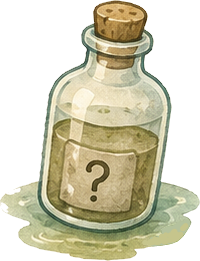
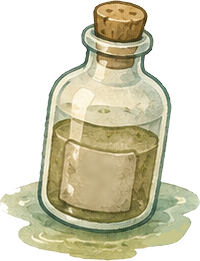
Page sides, image updates

Changed region(s): [[0.42, 0.613, 0.57, 0.7969]]

diff --git a/public/css/main.css b/public/css/main.css
@@ -1,6 +1,6 @@
 :root {
 	--scene-max: 1200px;
-	--page-bg: #344a26;
+	--page-bg: #33462d;
 	--header-green: #eef4d9;
 	--sky-blue: #b6e6ed;
 	--pond-blue: #9bb894;
@@ -139,7 +139,7 @@ a {
 }
 
 .pond-bubble--2 {
-	--bubble-x: 18%;
+	--bubble-x: 9%;
 	--bubble-y: 66%;
 	--bubble-size: 17px;
 	--bubble-duration: 17s;
@@ -155,7 +155,7 @@ a {
 }
 
 .pond-bubble--4 {
-	--bubble-x: 50%;
+	--bubble-x: 34%;
 	--bubble-y: 62%;
 	--bubble-size: 14px;
 	--bubble-duration: 18s;
@@ -171,7 +171,7 @@ a {
 }
 
 .pond-bubble--6 {
-	--bubble-x: 82%;
+	--bubble-x: 92%;
 	--bubble-y: 46%;
 	--bubble-size: 18px;
 	--bubble-duration: 19s;
@@ -187,11 +187,59 @@ a {
 }
 
 .pond-bubble--8 {
-	--bubble-x: 44%;
+	--bubble-x: 64%;
 	--bubble-y: 84%;
 	--bubble-size: 20px;
 	--bubble-duration: 20s;
 	--bubble-delay: -13s;
+}
+
+.pond-bubble--9 {
+	--bubble-x: 3%;
+	--bubble-y: 78%;
+	--bubble-size: 8px;
+	--bubble-duration: 11s;
+	--bubble-delay: -5s;
+}
+
+.pond-bubble--10 {
+	--bubble-x: 31%;
+	--bubble-y: 35%;
+	--bubble-size: 15px;
+	--bubble-duration: 16s;
+	--bubble-delay: -10s;
+}
+
+.pond-bubble--11 {
+	--bubble-x: 69%;
+	--bubble-y: 38%;
+	--bubble-size: 9px;
+	--bubble-duration: 13s;
+	--bubble-delay: -8s;
+}
+
+.pond-bubble--12 {
+	--bubble-x: 97%;
+	--bubble-y: 84%;
+	--bubble-size: 16px;
+	--bubble-duration: 18s;
+	--bubble-delay: -15s;
+}
+
+.pond-bubble--13 {
+	--bubble-x: 39%;
+	--bubble-y: 59%;
+	--bubble-size: 12px;
+	--bubble-duration: 14s;
+	--bubble-delay: -3s;
+}
+
+.pond-bubble--14 {
+	--bubble-x: 61%;
+	--bubble-y: 55%;
+	--bubble-size: 19px;
+	--bubble-duration: 17s;
+	--bubble-delay: -12s;
 }
 
 .pond-ripple {
@@ -227,14 +275,14 @@ a {
 
 @keyframes pond-bubble-rise {
 	0%,
-	38% {
+	18% {
 		opacity: 0;
 		transform: translate3d(0, 10px, 0) scale(0.75);
 	}
-	48% {
-		opacity: 0.56;
+	28% {
+		opacity: 0.5;
 	}
-	76% {
+	86% {
 		opacity: 0;
 		transform: translate3d(6px, -48px, 0) scale(1.08);
 	}
@@ -246,14 +294,14 @@ a {
 
 @keyframes pond-ripple-spread {
 	0%,
-	65% {
+	42% {
 		opacity: 0;
 		transform: scale(0.45);
 	}
-	69% {
+	49% {
 		opacity: 0.32;
 	}
-	82% {
+	80% {
 		opacity: 0;
 		transform: scale(2.1);
 	}
@@ -426,7 +474,10 @@ a {
 
 /* About page */
 .about-page {
-	background: var(--cream-soft);
+	display: flex;
+	min-height: 100vh;
+	flex-direction: column;
+	background: var(--ink);
 }
 
 .aboutCroak {
@@ -451,15 +502,28 @@ a {
 
 /* Pond notice-board pages */
 .info-page-main {
+	flex: 1;
+	width: 100%;
 	max-width: var(--scene-max);
 	min-height: 670px;
 	margin: 0 auto;
 	padding: clamp(48px, 7vw, 86px) clamp(18px, 5vw, 56px) 100px;
 	background:
-		radial-gradient(circle at 12% 18%, rgba(255, 255, 255, 0.28) 0 3px, transparent 4px),
-		radial-gradient(circle at 83% 72%, rgba(255, 255, 255, 0.2) 0 4px, transparent 5px),
+		radial-gradient(
+			circle at 12% 18%,
+			rgba(255, 255, 255, 0.28) 0 3px,
+			transparent 4px
+		),
+		radial-gradient(
+			circle at 83% 72%,
+			rgba(255, 255, 255, 0.2) 0 4px,
+			transparent 5px
+		),
 		var(--pond-blue);
-	background-size: 90px 90px, 130px 130px, auto;
+	background-size:
+		90px 90px,
+		130px 130px,
+		auto;
 }
 
 .pond-notice,
@@ -588,27 +652,23 @@ a {
 
 .found-item {
 	position: relative;
+	display: grid;
+	grid-template-columns: 112px minmax(0, 1fr);
+	gap: 18px;
+	align-items: center;
 	min-height: 138px;
-	padding: 22px 22px 20px 72px;
+	padding: 16px 22px 16px 14px;
 	border: 1px solid rgba(96, 125, 73, 0.28);
 	border-radius: 18px 24px 20px 16px;
 	background: rgba(255, 253, 242, 0.78);
 	box-shadow: 0 8px 16px rgba(55, 82, 47, 0.07);
 }
 
-.found-number {
-	position: absolute;
-	top: 20px;
-	left: 18px;
-	display: grid;
-	width: 38px;
-	height: 38px;
-	place-items: center;
-	border-radius: 50%;
-	background: var(--leaf);
-	color: #fff;
-	font-family: var(--display-font);
-	font-size: 0.78rem;
+.found-item-image {
+	width: 112px;
+	height: 108px;
+	object-fit: contain;
+	filter: drop-shadow(0 7px 7px rgba(55, 82, 47, 0.1));
 }
 
 .found-item h2 {
@@ -704,7 +764,7 @@ a {
 
 @media (max-width: 700px) {
 	.home-page::before {
-		top: 410px;
+		top: 465px;
 	}
 
 	.site-header {
@@ -733,7 +793,11 @@ a {
 	}
 
 	.site-nav {
-		display: none;
+		display: grid;
+		grid-template-columns: repeat(3, minmax(0, 1fr));
+		gap: 6px;
+		width: min(360px, 100%);
+		margin: 18px auto 0;
 	}
 
 	.music-toggle {
@@ -744,9 +808,13 @@ a {
 	}
 
 	.nav-tab {
-		min-width: 132px;
-		padding: 8px 12px;
-		font-size: 0.8rem;
+		display: flex;
+		min-width: 0;
+		min-height: 42px;
+		padding: 7px 5px;
+		align-items: center;
+		justify-content: center;
+		font-size: 0.7rem;
 	}
 
 	.hero {
@@ -788,6 +856,14 @@ a {
 
 	.found-item {
 		min-height: 0;
+		grid-template-columns: 82px minmax(0, 1fr);
+		gap: 13px;
+		padding: 13px 15px 13px 10px;
+	}
+
+	.found-item-image {
+		width: 82px;
+		height: 82px;
 	}
 
 	.footer-content {